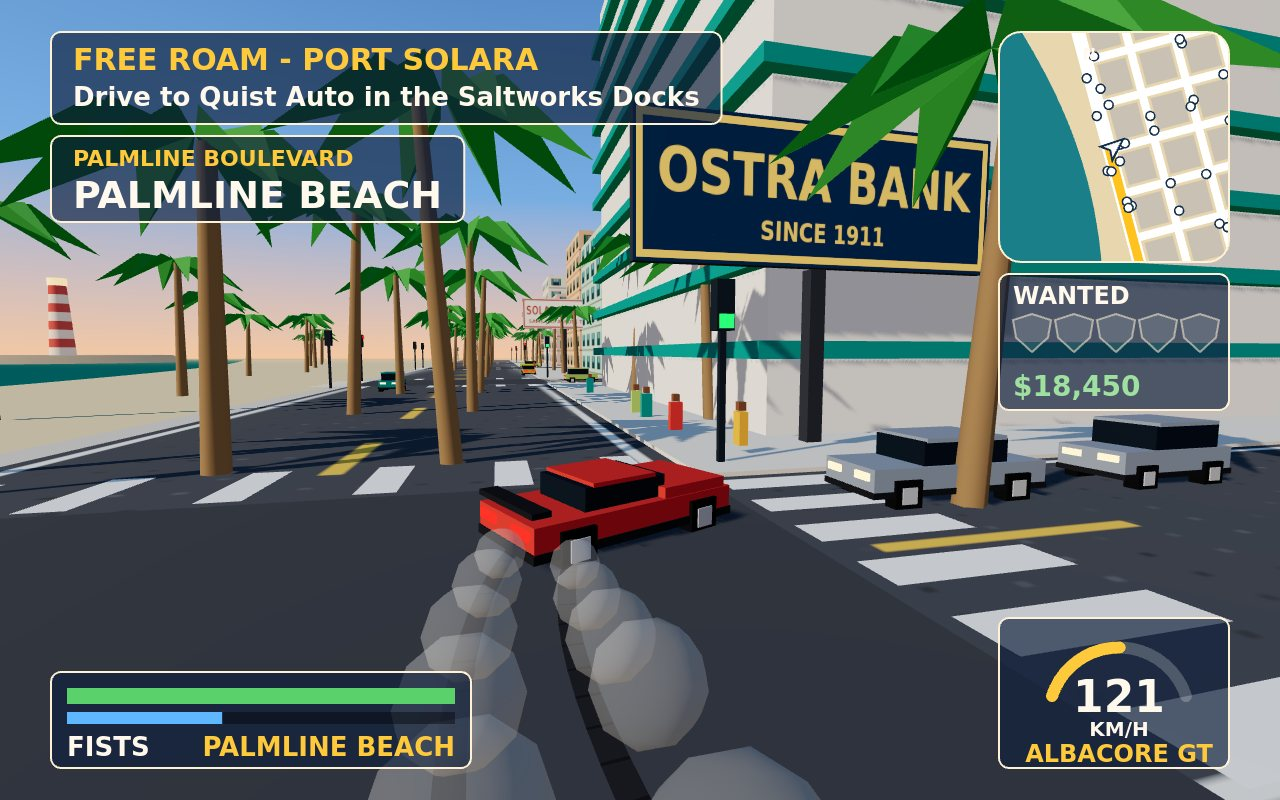
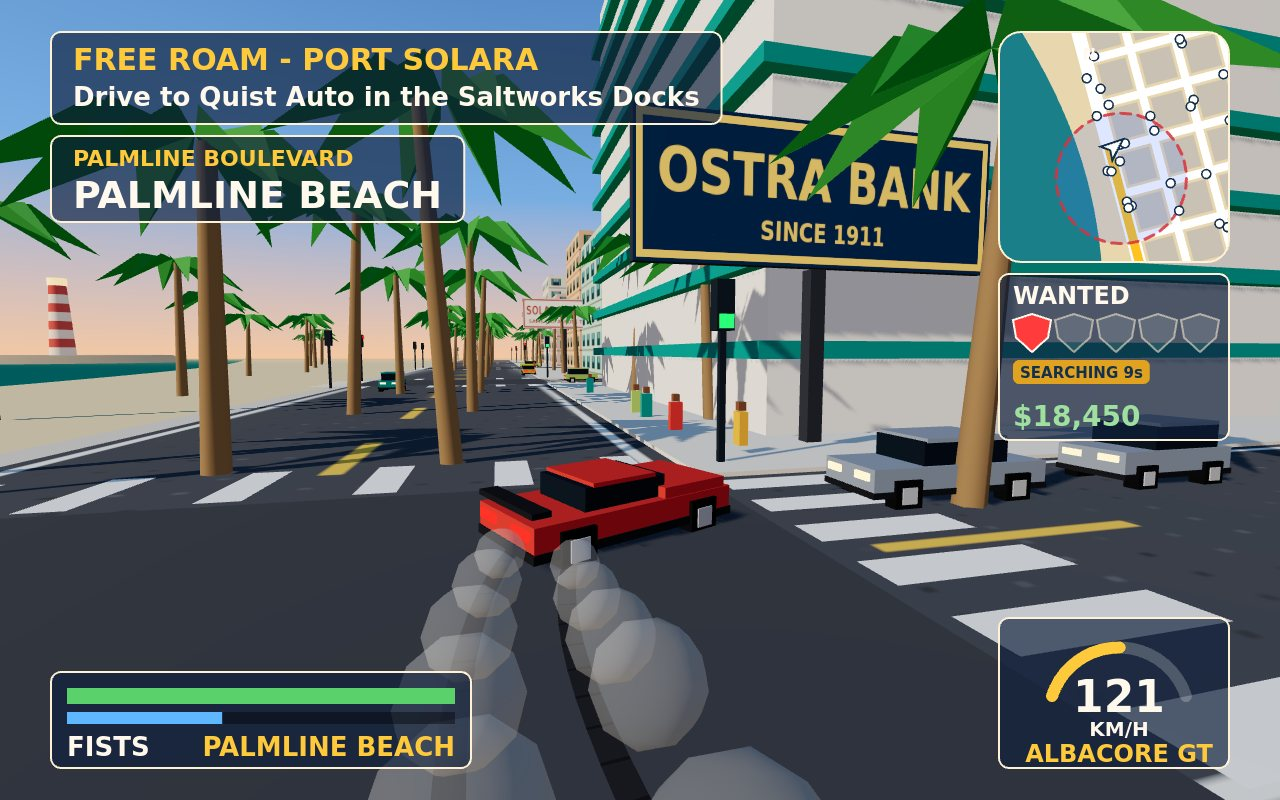
M3a step 1: police/wanted-level.js WantedLevel (witnessed theft +1, ped hit/gunfire +1, cop assault/wrecked cruiser +2, 5 pips, escape 8 s + 3 s per pip unseen) hooked into theft; HUD IN SIGHT / SEARCHING tag under the pips, minimap search circle; wanted self-test; re-shot 1-chase.jpg

Changed region(s): [[0.7812, 0.375, 0.9688, 0.5625], [0.8125, 0.125, 0.9375, 0.3125]]

diff --git a/game/src/police/wanted-level.js b/game/src/police/wanted-level.js
@@ -1,0 +1,50 @@
+// WANTED in five shield pips. Crimes raise heat: a theft seen by a walker or cop within 25 m, a hit
+// pedestrian and gunfire are +1; assaulting a cop and wrecking a cruiser are +2. While a cop has
+// line of sight the last-seen spot follows Wren; once nobody sees her, the escape timer runs
+// (8 s + 3 s per pip) and the minimap shows a search circle around the last-seen spot. Leave the
+// circle or outlast the timer unseen and the heat clears.
+export const CRIME_HEAT = { theft: 1, pedHit: 1, gunfire: 1, copAssault: 2, cruiserWrecked: 2 };
+export const WITNESS_RANGE = 25;
+
+export class WantedLevel {
+  constructor() {
+    this.pips = 0;
+    this.inSight = false;
+    this.unseenFor = 0;
+    this.lastSeen = { x: 0, z: 0 };
+  }
+
+  // Seconds without a sighting needed to shake the SPD at the current level.
+  get escapeSeconds() { return this.pips > 0 ? 8 + 3 * this.pips : 0; }
+  get escapeLeft() { return Math.max(0, this.escapeSeconds - this.unseenFor); }
+  get searchRadius() { return 60 + 25 * this.pips; }
+
+  // Report a crime at (x, z). Theft only counts when someone within 25 m saw it.
+  commit(crime, x, z, witnesses = 1) {
+    const heat = CRIME_HEAT[crime] || 0;
+    if (!heat || witnesses <= 0) return false;
+    this.pips = Math.min(5, this.pips + heat);
+    this.inSight = true;
+    this.unseenFor = 0;
+    this.lastSeen = { x, z };
+    return true;
+  }
+
+  // Fixed-step update. `seen` is the live line-of-sight check from the police (false until M3 step 2
+  // puts cruisers on the street, so the timer runs from the crime spot).
+  update(dt, focus, seen) {
+    if (this.pips === 0) { this.inSight = false; return; }
+    this.inSight = !!seen;
+    if (this.inSight) { this.unseenFor = 0; this.lastSeen = { x: focus.x, z: focus.z }; return; }
+    this.unseenFor += dt;
+    if (this.unseenFor >= this.escapeSeconds) this.clear();
+  }
+
+  clear() { this.pips = 0; this.inSight = false; this.unseenFor = 0; }
+}
+
+// Walkers within 25 m of a spot: the witnesses to a crime there.
+export function countWitnesses(game, x, z) {
+  if (!game.crowd) return 0;
+  return game.crowd.near(x, z, WITNESS_RANGE).filter((w) => Math.hypot(w.x - x, w.z - z) <= WITNESS_RANGE).length;
+}

diff --git a/game/src/main.js b/game/src/main.js
@@ -11,6 +11,7 @@ import { PlayerOnFoot } from './player/player-on-foot.js';
 import { stealNearestCar, updateCarTheft, nearestCar } from './player/car-theft.js';
 import { ChaseCamera } from './camera/chase-camera.js';
 import { drawHud } from './ui/hud.js';
+import { WantedLevel } from './police/wanted-level.js';
 import { drawMinimap, planGridRoute } from './ui/minimap.js';
 import { showTitleScreen } from './ui/menus-and-map.js';
 import { createSynthAudio } from './audio/synth-audio.js';
@@ -73,6 +74,8 @@ export function bootPortSolara() {
   game.crowd = new PedestrianCrowd(game);
   game.walkersNear = (x, z) => game.crowd.near(x, z);
   game.tyres = new SkidMarksAndSmoke(scene);
+  game.wantedLevel = new WantedLevel();
+  game.copsSee = () => false; // replaced by the police line-of-sight check in M3 step 2
   game.audio = createSynthAudio();
   canvas.addEventListener('pointerdown', () => game.audio.unlock());
 
@@ -114,6 +117,8 @@ export function bootPortSolara() {
     }
     for (const car of game.cars) if (car !== game.vehicle && !car.ai && Math.abs(car.speed) > 0.05) car.update(dt, { throttle: 0, steer: 0, handbrake: true }, game.collide);
     game.tyres.update(dt, game.vehicle);
+    game.wantedLevel.update(dt, game.focus, game.copsSee());
+    game.wanted = game.wantedLevel.pips;
     game.chase.update(dt, game.focus, game.collide);
     // Entering a district shows its title card, stamped with sim time so shots repeat.
     const district = PORT_SOLARA_NAMES.districts[districtAt(game.focus.x, game.focus.z)];

diff --git a/game/src/ui/hud.js b/game/src/ui/hud.js
@@ -39,12 +39,27 @@ export function drawHud(ctx, game, drawMinimap) {
   const mapX = w - mx - size, mapY = my;
   drawMinimap(ctx, game, mapX, mapY, size);
   const pipY = mapY + size + 12 * s;
-  panel(ctx, mapX, pipY, size, 136 * s);
+  const tagRow = game.wantedLevel?.pips > 0 ? 30 * s : 0;
+  panel(ctx, mapX, pipY, size, 136 * s + tagRow);
   ctx.fillStyle = WHITE; ctx.font = font(24 * s);
   ctx.fillText('WANTED', mapX + 14 * s, pipY + 30 * s);
+  // IN SIGHT (red) while a cop sees Wren, SEARCHING (amber) with the escape countdown otherwise.
+  const wl = game.wantedLevel;
+  if (wl && wl.pips > 0) {
+    const seen = wl.inSight;
+    const tag = seen ? 'IN SIGHT' : `SEARCHING ${Math.ceil(wl.escapeLeft)}s`;
+    ctx.font = font(15 * s);
+    const tw = ctx.measureText(tag).width + 14 * s;
+    const tx = mapX + 14 * s, ty = pipY + 86 * s;
+    ctx.fillStyle = seen ? '#d8323c' : '#e0a21f';
+    ctx.beginPath(); ctx.roundRect(tx, ty, tw, 24 * s, 6 * s); ctx.fill();
+    ctx.fillStyle = seen ? WHITE : '#14304f';
+    ctx.fillText(tag, tx + 7 * s, ty + 18 * s);
+    ctx.font = font(24 * s);
+  }
   for (let i = 0; i < 5; i++) shield(ctx, mapX + 14 * s + i * 42 * s, pipY + 40 * s, 38 * s, i < game.wanted, game.time);
   ctx.fillStyle = '#9fe0a0'; ctx.font = font(28 * s);
-  ctx.fillText('$' + game.cash.toLocaleString('en-US'), mapX + 14 * s, pipY + 122 * s);
+  ctx.fillText('$' + game.cash.toLocaleString('en-US'), mapX + 14 * s, pipY + 122 * s + tagRow);
 
   // Health, armour and weapon.
   const by = h - my - 96 * s;

diff --git a/game/src/dev/test-hooks.js b/game/src/dev/test-hooks.js
@@ -1,4 +1,6 @@
 // Exposes window.__test for tools/selftest.mjs: snapshot, step(n), simulated keys, teleport, perf.
+import { countWitnesses } from '../police/wanted-level.js';
+
 export function exposeTestHooks(game) {
   window.__test = {
     start() { game.startPlay(); return this.snapshot(); },
@@ -12,6 +14,21 @@ export function exposeTestHooks(game) {
         traffic: this.traffic(),
         peds: this.peds(),
       };
+    },
+    // A theft with walkers gathered around gives 1 pip, an unseen one none; then, with no cop in
+    // sight, the pips clear once the escape time (8 s + 3 s per pip) has passed.
+    wanted() {
+      const wl = game.wantedLevel, p = game.focus;
+      wl.clear();
+      const unseen = wl.commit('theft', p.x, p.z, 0) ? wl.pips : 0;
+      game.crowd.gatherNear(p.x, p.z, 6, 10);
+      const witnesses = countWitnesses(game, p.x, p.z);
+      wl.commit('theft', p.x, p.z, witnesses);
+      game.step();
+      const pips = wl.pips, escape = wl.escapeSeconds, searching = !wl.inSight, t0 = game.time;
+      let n = 0;
+      while (wl.pips > 0 && n++ < 2000) game.step();
+      return { unseen, witnesses, pips, escape, searching, clearedAfter: Math.round((game.time - t0) * 10) / 10, pipsAfter: wl.pips };
     },
     // Walkers placed near the focus, and how many stand inside a building box.
     peds() {

diff --git a/game/src/player/car-theft.js b/game/src/player/car-theft.js
@@ -1,4 +1,5 @@
 import * as THREE from 'three';
+import { countWitnesses } from '../police/wanted-level.js';
 
 // F next to a car. A parked one opens at once. An occupied one is jacked: the car brakes hard,
 // Wren steps to the driver's door, drags the driver out (a short tween with a stumble), the
@@ -8,7 +9,10 @@ export function stealNearestCar(game) {
   const car = nearestCar(game);
   if (!car) return null;
   if (!car.ai) {
-    if (!car.owned) game.audio?.alarm();
+    if (!car.owned) {
+      game.audio?.alarm();
+      game.wantedLevel?.commit('theft', car.x, car.z, countWitnesses(game, car.x, car.z));
+    }
     takeTheWheel(game, car);
     return { car, jacked: false };
   }
@@ -19,6 +23,7 @@ export function stealNearestCar(game) {
   figure.visible = false;
   game.theft = { car, t: 0, side, from: { x: p.x, z: p.z }, figure };
   game.crowd?.panic(car.x, car.z, 14);
+  game.wantedLevel?.commit('theft', car.x, car.z, countWitnesses(game, car.x, car.z));
   return { car, jacked: true };
 }
 

diff --git a/game/src/ui/minimap.js b/game/src/ui/minimap.js
@@ -46,6 +46,19 @@ export function drawMinimap(ctx, game, x, y, size) {
     const end = route[route.length - 1];
     blip(ctx, end.x, end.z, 9 / scale * s, '#ffc21f', '#14304f');
   }
+  // Search circle: while WANTED and unseen, the SPD sweeps around Wren's last-seen spot.
+  const wl = game.wantedLevel;
+  if (wl && wl.pips > 0 && !wl.inSight) {
+    ctx.beginPath();
+    ctx.arc(wl.lastSeen.x, wl.lastSeen.z, wl.searchRadius, 0, Math.PI * 2);
+    ctx.fillStyle = 'rgba(70, 120, 255, 0.18)';
+    ctx.fill();
+    ctx.strokeStyle = 'rgba(216, 50, 60, 0.85)';
+    ctx.lineWidth = 3 / scale * s;
+    ctx.setLineDash([10 / scale * s, 7 / scale * s]);
+    ctx.stroke();
+    ctx.setLineDash([]);
+  }
   for (const car of game.cars) if (car !== game.vehicle) blip(ctx, car.x, car.z, 4.5 / scale * s, '#ffffff', '#14304f');
   ctx.restore();
 

diff --git a/NOTES.md b/NOTES.md
@@ -1,5 +1,7 @@
 # PORT SOLARA build notes
 
+- M3a step 1 (2026-11-18): police/wanted-level.js `WantedLevel` (theft seen within 25 m +1, pedHit/gunfire +1, copAssault/cruiserWrecked +2, 5 pips, escape 8 s + 3 s/pip unseen) hooked into both theft paths; HUD IN SIGHT / SEARCHING Ns tag under the pips, dashed minimap search circle (60 m + 25 m/pip) round the last-seen spot; `copsSee` is a stub until step 2; wanted self-test PASS (6 witnesses -> 1 pip, cleared after 11 s), 10/10 PASS, perf 152 draw calls; 1-chase.jpg re-shot (WANTED 1, SEARCHING), 2/4 unchanged. Next: step 2 police-ai.js.
+
 ## Done (M2 Traffic and theft: complete, all 7 steps, runs of 2026-11-18)
 - Step 4 player/car-theft.js `stealNearestCar`: F within 6 m of a traffic car detaches it from the
   pool, brakes it hard, tweens Wren to the driver's door (0.35 s), drags the driver out past her with
